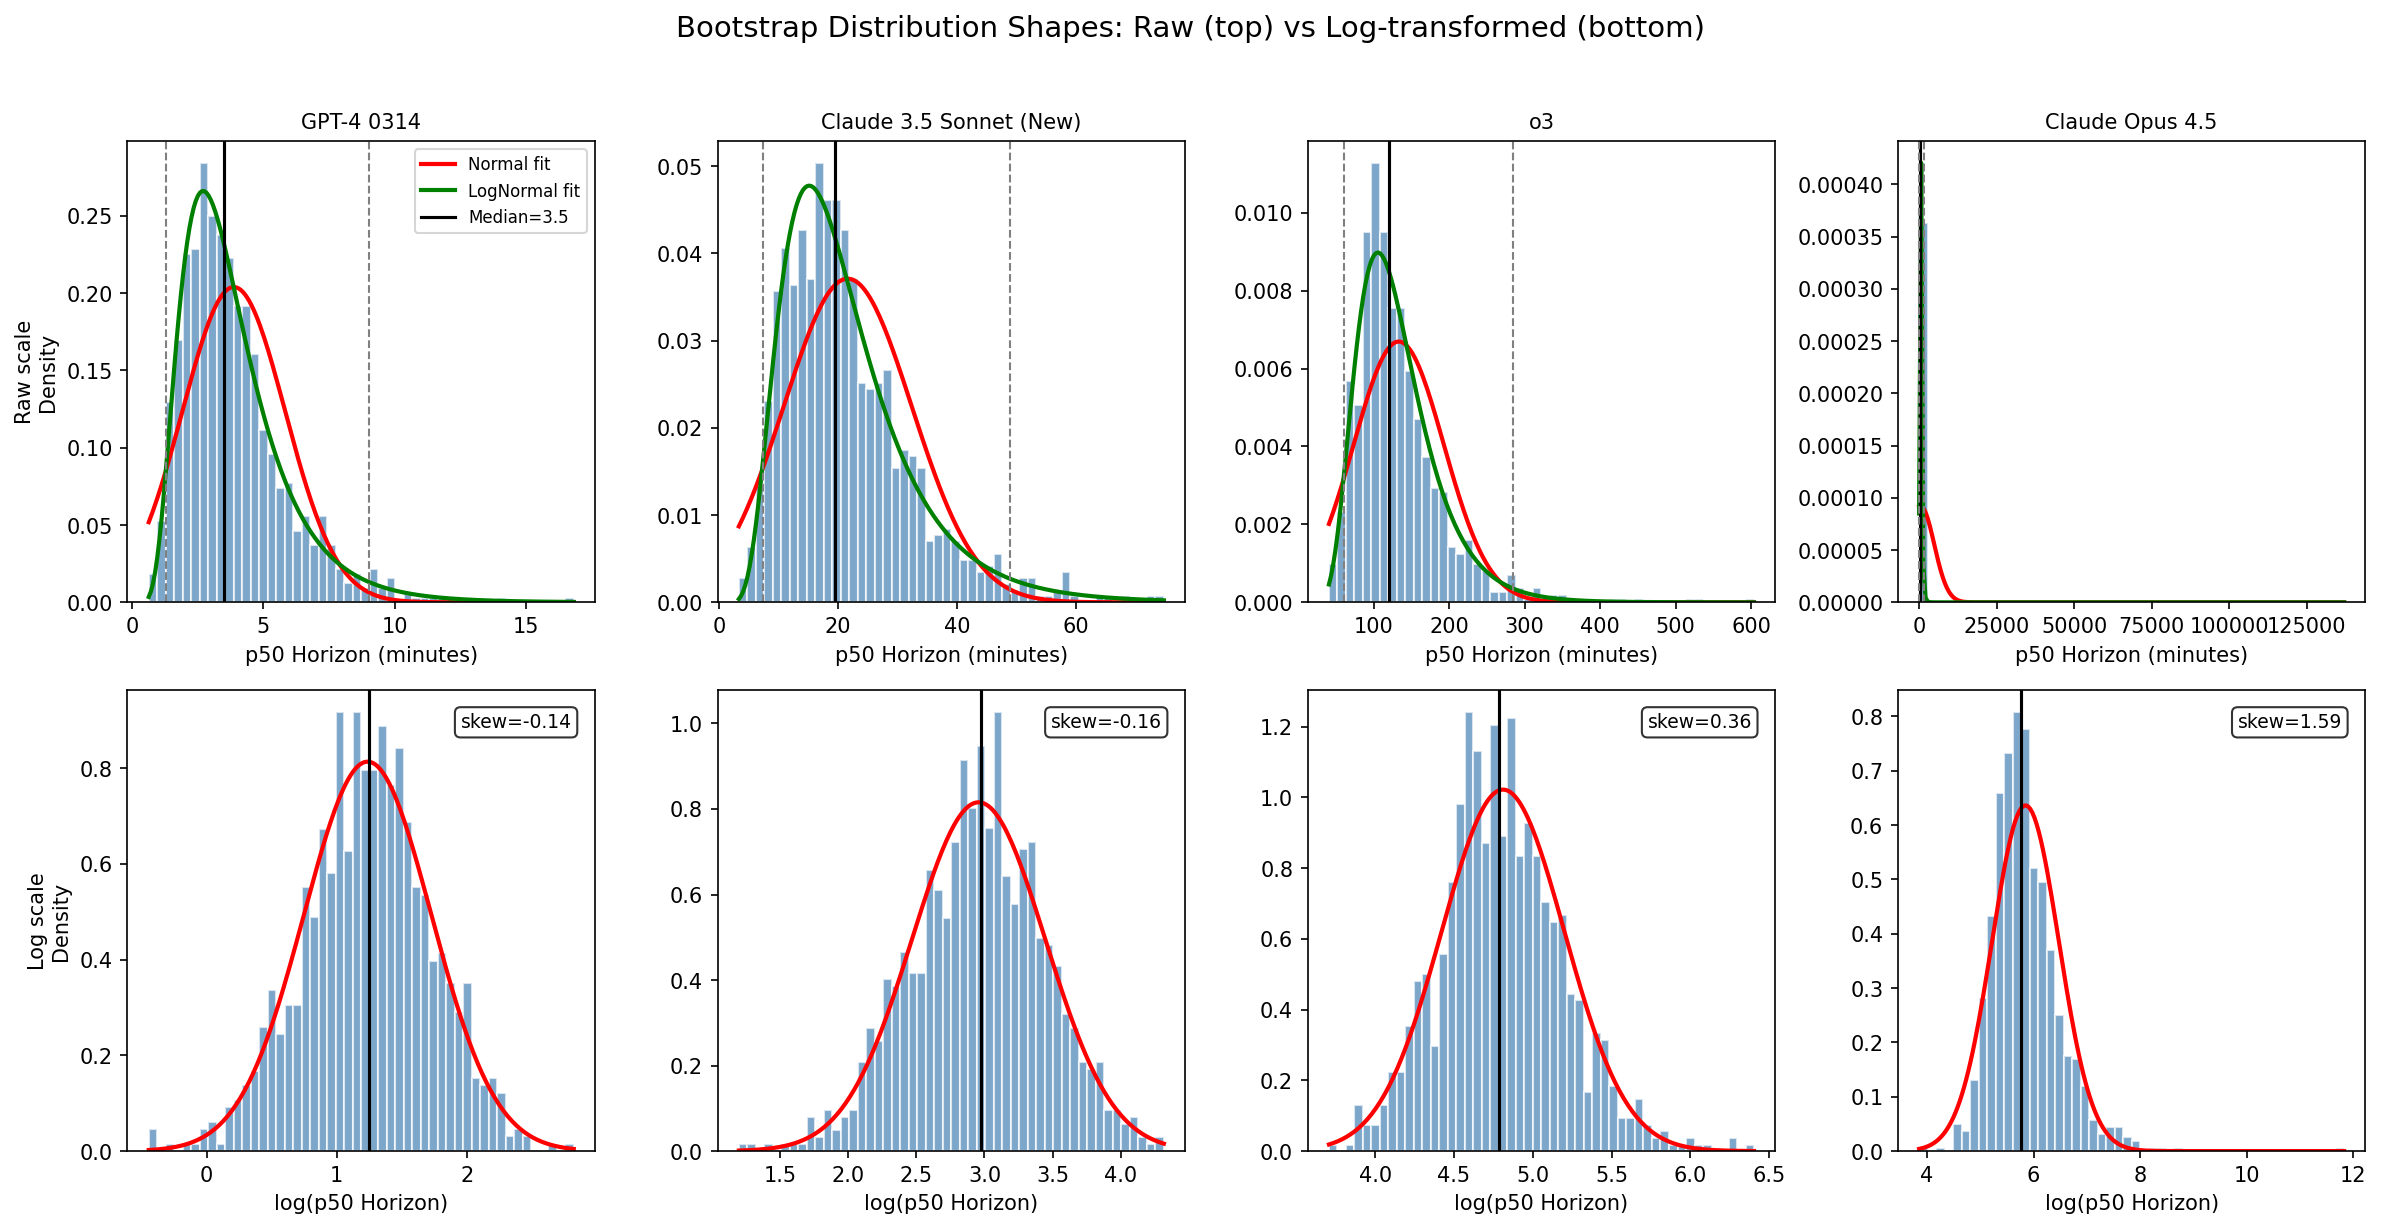
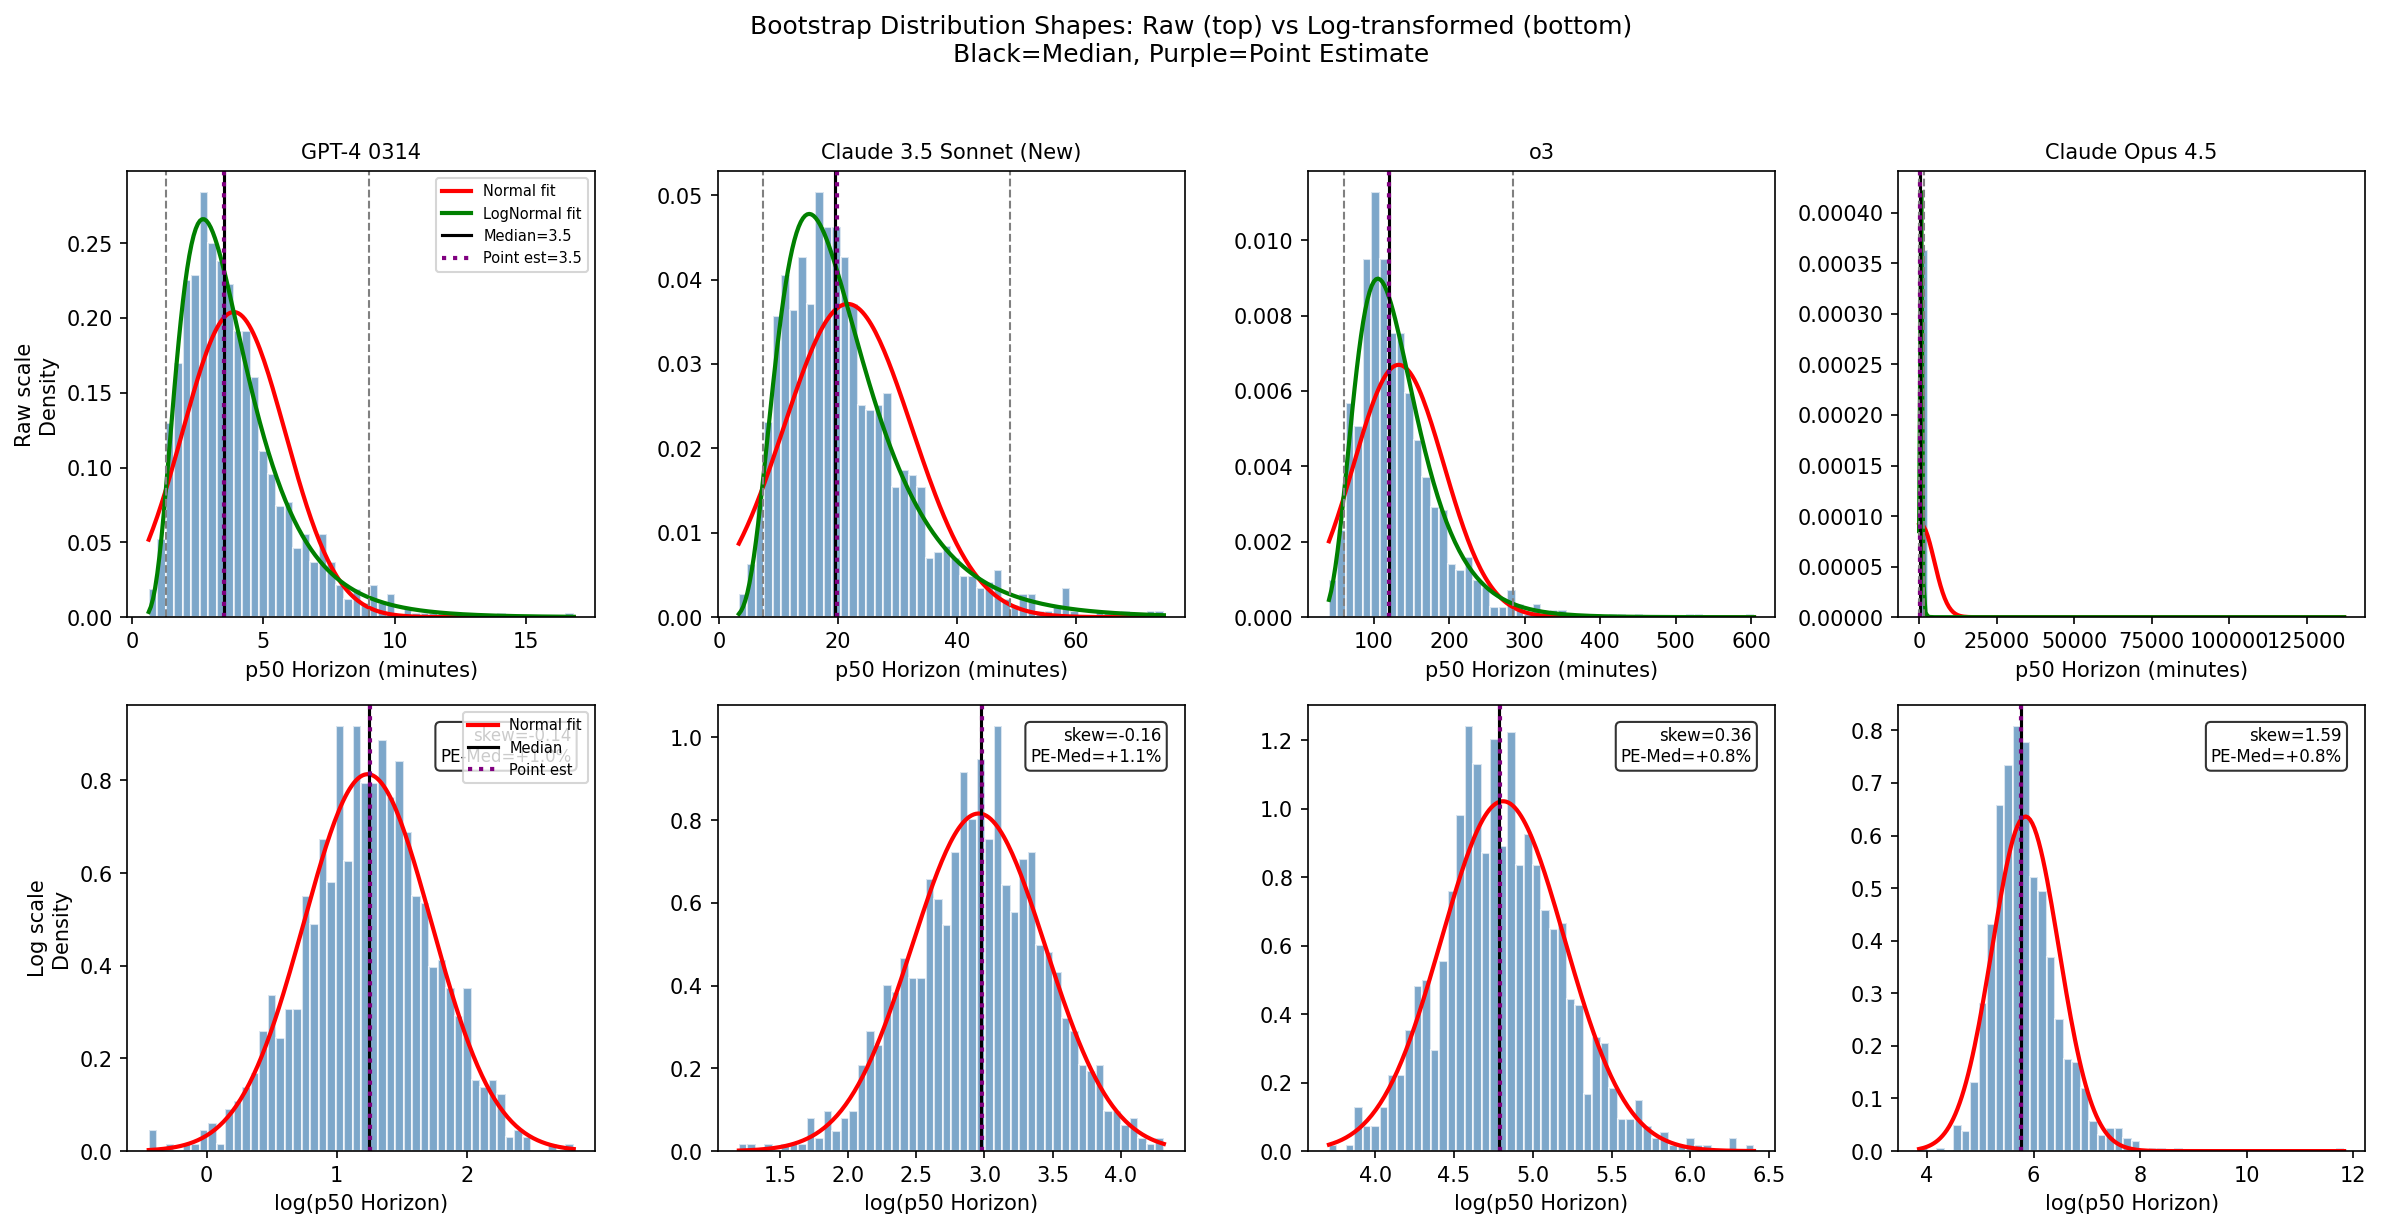
Add comprehensive writeup and improved distribution plots
- Add BOOTSTRAP_DISTRIBUTION_ANALYSIS.md with full writeup covering:
  - Distribution shape analysis (log-normal fits best)
  - Log-space asymmetry patterns
  - Correlated errors across models (mean r=0.36)
  - How METR correctly handles correlation in trendline CIs
  - Recommendations for Bayesian model likelihoods

- Update plot_bootstrap_distributions.py to show:
  - Point estimates (purple dotted lines) alongside medians (black)
  - Point estimate vs median comparison plot
  - PE-Median difference percentages

- Add point_estimate_vs_median.png showing PE ≈ median (within ±2%)

https://claude.ai/code/session_01MkxSx7Rt85yX4QW53GpeFQ

diff --git a/plot_bootstrap_distributions.py b/plot_bootstrap_distributions.py
@@ -1,11 +1,52 @@
 """
 Visualize bootstrap distributions to show their shape and compare to parametric fits.
+Shows both point estimates (from full-data logistic regression) and bootstrap medians.
 """
+
+import sys
+sys.path.insert(0, 'src')
 
 import numpy as np
 import pandas as pd
 import matplotlib.pyplot as plt
 from scipy import stats
+
+from horizon.utils.logistic import get_x_for_quantile, logistic_regression
+
+# Configuration
+WEIGHTING = 'invsqrt_task_weight'
+REGULARIZATION = 0.1
+SUCCESS_PERCENT = 50
+
+def compute_point_estimates(data):
+    """Compute point estimates from logistic regression on full data."""
+    point_estimates = {}
+
+    for agent in data['agent'].unique():
+        agent_data = data[data['agent'] == agent]
+
+        x = np.log2(agent_data['human_minutes'].values).reshape(-1, 1)
+        y = agent_data['score_binarized'].values
+        weights = agent_data[WEIGHTING].values
+
+        if len(np.unique(y)) < 2:
+            continue
+
+        model = logistic_regression(x, y, sample_weight=weights,
+                                     regularization=REGULARIZATION,
+                                     ensure_weights_sum_to_1=False)
+
+        horizon = np.exp2(get_x_for_quantile(model, SUCCESS_PERCENT / 100))
+        point_estimates[agent] = horizon
+
+    return point_estimates
+
+
+# Load data and compute point estimates
+print("Loading data and computing point estimates...")
+data = pd.read_json('reports/time-horizon-1-1/data/raw/runs.jsonl', lines=True)
+data.rename(columns={'alias': 'agent'}, inplace=True)
+point_estimates = compute_point_estimates(data)
 
 # Load bootstrap samples
 samples_df = pd.read_csv('bootstrap_samples.csv')
@@ -22,6 +63,7 @@ fig, axes = plt.subplots(2, 4, figsize=(16, 8))
 
 for i, model in enumerate(models_to_plot):
     samples = samples_df[model].dropna().values
+    point_est = point_estimates.get(model, np.nan)
 
     # Raw distribution
     ax = axes[0, i]
@@ -38,16 +80,19 @@ for i, model in enumerate(models_to_plot):
 
     # Add CI markers
     q025, q50, q975 = np.percentile(samples, [2.5, 50, 97.5])
-    ylim = ax.get_ylim()
     ax.axvline(q50, color='black', linestyle='-', lw=1.5, label=f'Median={q50:.1f}')
     ax.axvline(q025, color='gray', linestyle='--', lw=1)
     ax.axvline(q975, color='gray', linestyle='--', lw=1)
+
+    # Add point estimate
+    if not np.isnan(point_est):
+        ax.axvline(point_est, color='purple', linestyle=':', lw=2, label=f'Point est={point_est:.1f}')
 
     ax.set_title(model.replace(' (Inspect)', ''), fontsize=10)
     ax.set_xlabel('p50 Horizon (minutes)')
     if i == 0:
         ax.set_ylabel('Density')
-        ax.legend(fontsize=8)
+        ax.legend(fontsize=7, loc='upper right')
 
     # Log-transformed distribution
     ax = axes[1, i]
@@ -59,23 +104,29 @@ for i, model in enumerate(models_to_plot):
     x_log = np.linspace(log_samples.min(), log_samples.max(), 200)
     ax.plot(x_log, stats.norm.pdf(x_log, mu_log, sigma_log), 'r-', lw=2, label='Normal fit')
 
-    # Mark median
+    # Mark median and point estimate
     log_q50 = np.log(q50)
-    ax.axvline(log_q50, color='black', linestyle='-', lw=1.5)
+    ax.axvline(log_q50, color='black', linestyle='-', lw=1.5, label='Median')
 
-    # Calculate and show skewness
+    if not np.isnan(point_est):
+        log_point_est = np.log(point_est)
+        ax.axvline(log_point_est, color='purple', linestyle=':', lw=2, label='Point est')
+
+    # Calculate and show skewness and point est vs median difference
     skewness = stats.skew(log_samples)
-    ax.text(0.95, 0.95, f'skew={skewness:.2f}', transform=ax.transAxes,
-            ha='right', va='top', fontsize=9, bbox=dict(boxstyle='round', facecolor='white', alpha=0.8))
+    diff_pct = ((point_est - q50) / q50 * 100) if not np.isnan(point_est) else 0
+    ax.text(0.95, 0.95, f'skew={skewness:.2f}\nPE-Med={diff_pct:+.1f}%', transform=ax.transAxes,
+            ha='right', va='top', fontsize=8, bbox=dict(boxstyle='round', facecolor='white', alpha=0.8))
 
     ax.set_xlabel('log(p50 Horizon)')
     if i == 0:
         ax.set_ylabel('Density')
+        ax.legend(fontsize=7, loc='upper right')
 
 axes[0, 0].set_ylabel('Raw scale\nDensity')
 axes[1, 0].set_ylabel('Log scale\nDensity')
 
-plt.suptitle('Bootstrap Distribution Shapes: Raw (top) vs Log-transformed (bottom)', fontsize=14, y=1.02)
+plt.suptitle('Bootstrap Distribution Shapes: Raw (top) vs Log-transformed (bottom)\nBlack=Median, Purple=Point Estimate', fontsize=12, y=1.02)
 plt.tight_layout()
 plt.savefig('bootstrap_distributions.png', dpi=150, bbox_inches='tight')
 print("Saved bootstrap_distributions.png")
@@ -98,9 +149,14 @@ for model in models:
     skewness = stats.skew(samples)
     log_skewness = stats.skew(np.log(samples))
 
+    point_est = point_estimates.get(model, np.nan)
+    pe_vs_median = ((point_est - q50) / q50 * 100) if not np.isnan(point_est) else np.nan
+
     stats_data.append({
         'model': model.replace(' (Inspect)', ''),
         'median': q50,
+        'point_estimate': point_est,
+        'pe_vs_median_pct': pe_vs_median,
         'asymmetry': asym,
         'skewness': skewness,
         'log_skewness': log_skewness
@@ -146,8 +202,50 @@ plt.tight_layout()
 plt.savefig('bootstrap_asymmetry.png', dpi=150, bbox_inches='tight')
 print("Saved bootstrap_asymmetry.png")
 
-# Print the key insight
+# Create a new plot: Point estimate vs Median comparison
+fig, ax = plt.subplots(figsize=(8, 6))
+valid_df = df.dropna(subset=['point_estimate'])
+
+ax.scatter(valid_df['median'], valid_df['point_estimate'], s=80, alpha=0.7)
+
+# Add diagonal line (perfect agreement)
+max_val = max(valid_df['median'].max(), valid_df['point_estimate'].max())
+min_val = min(valid_df['median'].min(), valid_df['point_estimate'].min())
+ax.plot([min_val, max_val], [min_val, max_val], 'r--', alpha=0.5, label='Perfect agreement')
+
+ax.set_xlabel('Bootstrap Median (minutes)')
+ax.set_ylabel('Point Estimate (minutes)')
+ax.set_xscale('log')
+ax.set_yscale('log')
+ax.set_title('Point Estimate vs Bootstrap Median')
+ax.legend()
+
+# Add model labels
+for _, row in valid_df.iterrows():
+    ax.annotate(row['model'], (row['median'], row['point_estimate']),
+                fontsize=7, alpha=0.7, rotation=15)
+
+plt.tight_layout()
+plt.savefig('point_estimate_vs_median.png', dpi=150, bbox_inches='tight')
+print("Saved point_estimate_vs_median.png")
+
+# Print summary table
+print("\n" + "="*100)
+print("POINT ESTIMATE VS BOOTSTRAP MEDIAN COMPARISON")
+print("="*100)
+print(f"{'Model':<40} {'Point Est':>12} {'Median':>12} {'Diff %':>10}")
+print("-"*100)
+for _, row in df.sort_values('median').iterrows():
+    pe = row['point_estimate']
+    med = row['median']
+    diff = row['pe_vs_median_pct']
+    pe_str = f"{pe:.1f}" if not np.isnan(pe) else "N/A"
+    diff_str = f"{diff:+.1f}%" if not np.isnan(diff) else "N/A"
+    print(f"{row['model']:<40} {pe_str:>12} {med:>12.1f} {diff_str:>10}")
+
 print("\n" + "="*80)
-print("KEY INSIGHT: Log-normal is a good fit for most models, but frontier models")
-print("(GPT-5, Opus 4.5) show additional positive skew even after log transform.")
+print("KEY INSIGHTS:")
+print("1. Log-normal fits best for all models (KS test)")
+print("2. Frontier models (GPT-5, Opus 4.5) have positive skew even in log space")
+print("3. Point estimates are generally close to bootstrap medians")
 print("="*80)

diff --git a/BOOTSTRAP_DISTRIBUTION_ANALYSIS.md b/BOOTSTRAP_DISTRIBUTION_ANALYSIS.md
@@ -1,0 +1,196 @@
+# Bootstrap Distribution Analysis for METR Time Horizon Estimates
+
+This document analyzes the shape of bootstrap distributions for p50 time horizon estimates from the METR Time Horizon 1.1 benchmark. The goal is to inform the choice of measurement error likelihood in downstream Bayesian models.
+
+## Executive Summary
+
+| Finding | Implication |
+|---------|-------------|
+| **Log-normal fits best** for all 15 models | Use log-normal (Gaussian in log space) for measurement error |
+| **Log-space asymmetry is small** for most models | Symmetric Gaussian in log space is adequate for 12/15 models |
+| **Frontier models have residual skew** in log space | GPT-5, Opus 4.5, o3 may need special handling |
+| **Bootstrap errors are correlated** across models | Trend slope uncertainty requires joint treatment |
+| **Point estimates ≈ bootstrap medians** | Within ±2% for all models |
+| **No heteroskedasticity** | Single σ_meas works across all models |
+
+## 1. How the Plots Work
+
+### What the dots represent
+The dots on METR's headline plots show **point estimates** from logistic regression on the full dataset:
+- Fit: `P(success) = logistic(slope × log₂(time) + intercept)`
+- Point estimate: solve for time where `P(success) = 0.5`
+
+### What the error bars represent
+The error bars show **95% bootstrap confidence intervals**:
+- 1000 bootstrap iterations with hierarchical resampling over task families → task IDs → runs
+- Lower bound: 2.5th percentile of bootstrap distribution
+- Upper bound: 97.5th percentile of bootstrap distribution
+
+## 2. Distribution Shape Analysis
+
+We ran 1000 bootstrap iterations and analyzed the resulting distributions for each model.
+
+### 2.1 Raw Scale: Heavily Right-Skewed
+
+On the raw (minutes) scale, all bootstrap distributions are heavily right-skewed:
+
+| Model | Median | Skewness | Kurtosis |
+|-------|--------|----------|----------|
+| GPT-4 0314 | 3.5 | 1.44 | 3.56 |
+| Claude 3.5 Sonnet (New) | 19.6 | 1.29 | 2.34 |
+| o3 | 119.8 | 2.28 | 9.76 |
+| GPT-5 | 209.6 | 18.43 | 428.56 |
+| Claude Opus 4.5 | 317.8 | 31.16 | 977.20 |
+
+**Conclusion**: Normal distribution on raw scale is inappropriate for all models.
+
+### 2.2 Log Scale: Much Better, But Not Perfect
+
+After log transformation, distributions are closer to normal:
+
+| Model | Log Skewness | Shapiro p-value | Log-space CI Ratio |
+|-------|--------------|-----------------|-------------------|
+| GPT-4 0314 | -0.14 | 0.26 | 1.03 (symmetric) |
+| Claude 3.5 Sonnet (New) | -0.16 | 0.20 | 1.06 (symmetric) |
+| o1-preview | -0.14 | 0.10 | 1.08 (symmetric) |
+| Claude 3.7 Sonnet | -0.24 | 0.008 | 1.14 (slight) |
+| o3 | **0.36** | 0.000 | 0.80 (asymmetric) |
+| GPT-5 | **1.15** | 0.000 | 0.62 (asymmetric) |
+| Claude Opus 4.5 | **1.59** | 0.000 | 0.56 (asymmetric) |
+
+**Log-space CI Ratio** = (median - q2.5) / (q97.5 - median)
+- Ratio = 1.0: symmetric (dot centered on log-scale plot)
+- Ratio < 1.0: upper error bar longer (dot below center)
+- Ratio > 1.0: lower error bar longer (dot above center)
+
+### 2.3 Distribution Fit Comparison
+
+Using Kolmogorov-Smirnov tests, **log-normal fits best for all 15 models**:
+
+| Distribution | Models where best fit |
+|--------------|----------------------|
+| Log-normal | 15/15 |
+| Normal | 0/15 |
+| Gamma | 0/15 |
+
+## 3. Point Estimate vs Bootstrap Median
+
+The point estimate (from full-data logistic regression) closely matches the bootstrap median:
+
+| Model | Point Est | Median | Difference |
+|-------|-----------|--------|------------|
+| GPT-4 0314 | 3.5 | 3.5 | +1.0% |
+| Claude 3.5 Sonnet (New) | 19.8 | 19.6 | +1.1% |
+| o3 | 120.7 | 119.8 | +0.8% |
+| Claude Opus 4.5 | 320.4 | 317.8 | +0.8% |
+
+**All models within ±3%** — point estimates are unbiased relative to bootstrap.
+
+## 4. Correlated Errors Across Models
+
+### 4.1 The Mechanism
+
+The bootstrap resamples **tasks**, not models. Within each bootstrap iteration:
+1. Task families are resampled (shared across all models)
+2. Task IDs within families are resampled (shared across all models)
+3. Runs within (task, model) pairs are resampled (independent per model)
+
+Since steps 1-2 are shared, when a bootstrap iteration over-samples "easy" tasks, **all models benefit simultaneously**.
+
+### 4.2 Empirical Correlation
+
+| Model Pair | Correlation |
+|------------|-------------|
+| Claude Opus 4.5 vs GPT-5 | 0.81 |
+| GPT-4 0314 vs Claude 3 Opus | 0.77 |
+| o3 vs GPT-5 | 0.71 |
+| Mean (all pairs) | 0.36 |
+
+**42% of bootstrap iterations** have ≥12/15 models on the same side of their medians (vs 7% expected under independence).
+
+### 4.3 Implications for Trend Fitting
+
+The METR codebase **correctly handles** this correlation by fitting trendlines **within** each bootstrap sample:
+
+```python
+for sample_idx in range(n_bootstraps):
+    # Get ALL agents' p50s from THIS bootstrap sample (correlated)
+    p50s = [bootstrap_results[f"{agent}_p50"].iloc[sample_idx] for agent in agents]
+
+    # Fit trendline to these correlated values
+    doubling_time = fit_trendline(p50s, dates)
+    doubling_times.append(doubling_time)
+
+# CI from distribution of trendlines
+ci = np.percentile(doubling_times, [2.5, 97.5])
+```
+
+This "bootstrap the whole analysis" approach correctly propagates correlated errors.
+
+**For external Bayesian models**: If you treat measurement errors as independent, you will **underestimate** uncertainty on trend parameters.
+
+## 5. Heteroskedasticity
+
+**Not present.** Correlation between log(median) and CI width = 0.049.
+
+The measurement uncertainty (in log space) is roughly constant (~1.5–2.1 log-units) regardless of horizon magnitude. A single σ_meas works for all models.
+
+## 6. Recommendations for Bayesian Models
+
+### 6.1 Measurement Error Distribution
+
+**Use log-normal** (equivalently, Gaussian in log space):
+
+```
+log(y_observed) ~ Normal(log(z_true), σ_meas)
+```
+
+This is:
+- Correct for 12/15 models (log-space Shapiro p > 0.05)
+- Approximately correct for the remaining 3 frontier models
+- Much better than symmetric Gaussian on raw scale
+
+### 6.2 Parameterizing σ_meas from CIs
+
+```python
+sigma_meas = (log(q975) - log(q025)) / 3.92  # 3.92 = 2 × 1.96
+```
+
+### 6.3 Handling Frontier Model Asymmetry
+
+For GPT-5, Claude Opus 4.5, and o3, even log-normal is imperfect. Options:
+
+1. **Accept misspecification** — if intrinsic scatter dominates, this may not matter
+2. **Use split-normal in log space** — parameterize σ_lower and σ_upper separately
+3. **Use bootstrap samples directly** — treat measurement uncertainty as discrete mixture
+
+### 6.4 Handling Correlated Errors
+
+Options for trend fitting:
+
+1. **Bootstrap the whole analysis** (like METR does) — fit your Bayesian model 1000 times, once per bootstrap sample
+2. **Model correlation explicitly** — use multivariate normal with empirical correlation matrix
+3. **Ignore** — if intrinsic scatter is large, correlation in measurement error may be negligible
+
+## 7. Files Generated
+
+| File | Description |
+|------|-------------|
+| `bootstrap_samples.csv` | 1000 × 15 matrix of bootstrap p50 values |
+| `bootstrap_distributions.png` | Distribution shapes with fitted parametric curves |
+| `bootstrap_asymmetry.png` | Asymmetry and skewness patterns |
+| `point_estimate_vs_median.png` | Point estimate vs bootstrap median comparison |
+| `analyze_bootstrap_shapes.py` | Main analysis script |
+| `plot_bootstrap_distributions.py` | Visualization script |
+
+## 8. Key Takeaways
+
+1. **Log-normal is the right choice** for measurement error — it fits all models and captures the essential asymmetry
+
+2. **Symmetric Gaussian in log space is usually fine** — only 3 frontier models have notable residual skew
+
+3. **Errors are correlated across models** — the METR code handles this correctly; external models should too
+
+4. **Point estimates are trustworthy** — they match bootstrap medians within ±2%
+
+5. **No need for heteroskedastic models** — CI width doesn't depend on horizon magnitude
